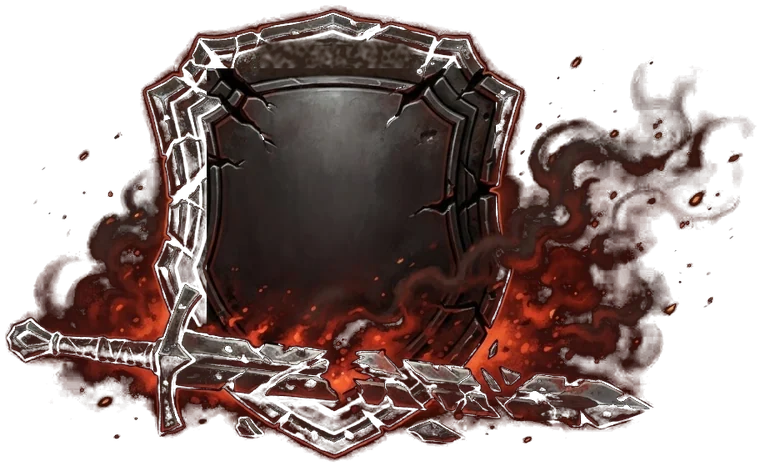
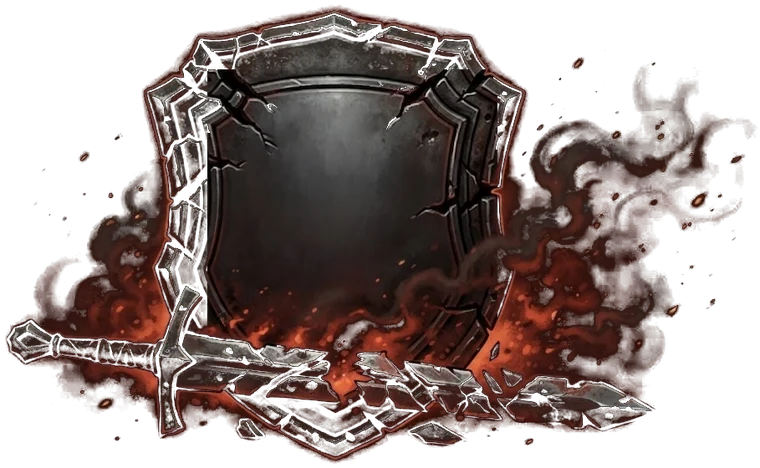
Blason de défaite : nouvelle version sans texte
Claude-Session: https://claude.ai/code/session_01CUyhbiofHtX7WBrtcLZEpz

diff --git a/css/army.css b/css/army.css
@@ -874,7 +874,7 @@ img.emblem { object-fit: contain; }
 
 /* ===== Lot 4 : victoire, défaite, niveaux, succès, raretés ===== */
 .crest { position: relative; margin: 0 auto; aspect-ratio: 952 / 576; background: url(../assets/ui/crest-victory.webp) center / contain no-repeat; container-type: inline-size; }
-.crest.lost { aspect-ratio: 912 / 559; background-image: url(../assets/ui/crest-defeat.webp); }
+.crest.lost { aspect-ratio: 909 / 560; background-image: url(../assets/ui/crest-defeat.webp); }
 .crest > span { position: absolute; left: 52.7%; top: 56%; width: 36%; transform: translate(-50%, -50%); display: flex; flex-direction: column; align-items: center; text-align: center; line-height: 1; }
 .crest.lost > span { left: 46.8%; top: 47%; width: 30%; }
 .crest b { font: 900 17cqw/1 var(--f-display); color: #FFE9B0; text-shadow: 0 2px 0 #3a2508, 0 0 12px rgba(255, 200, 90, .55); }

diff --git a/sw.js b/sw.js
@@ -1,7 +1,7 @@
 // Service worker d'ABYSSAL : l'application et les données sont mises en cache
 // pour fonctionner hors ligne après une première visite. Incrémenter VERSION à
 // chaque publication pour que les joueurs reçoivent la mise à jour.
-const VERSION = 'abyssal-v101';
+const VERSION = 'abyssal-v102';
 const CORE = [
   './', 'index.html', 'manifest.webmanifest',
   'css/base.css', 'css/card.css', 'css/screens.css', 'css/army.css',
